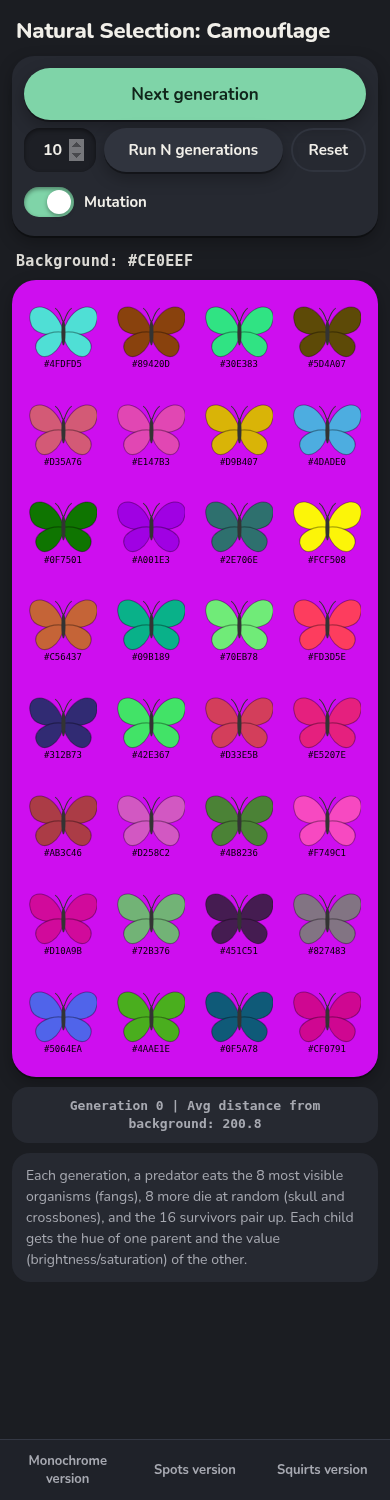
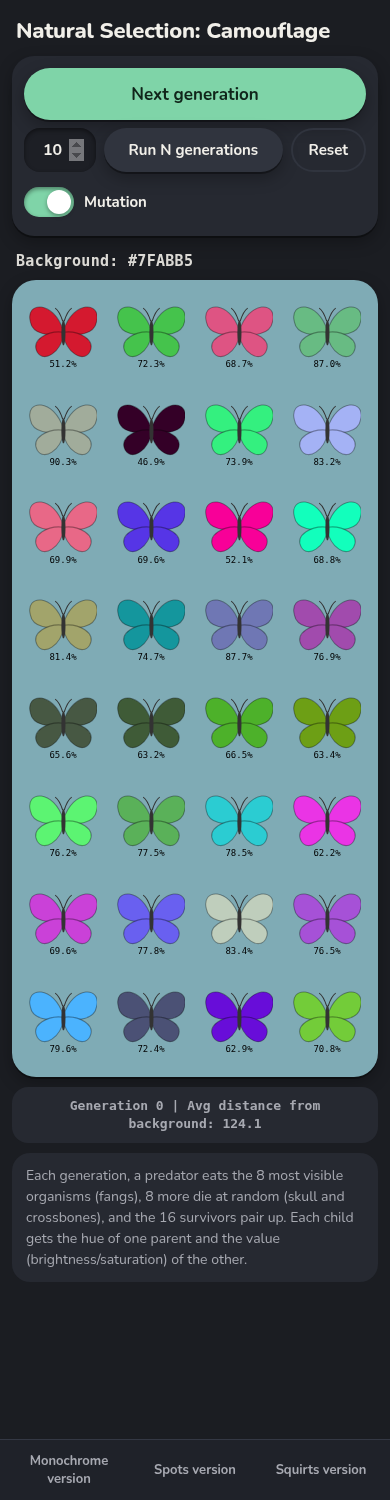
Desktop layout (min-width:900px) and drop inline max-width on description

diff --git a/design/mobile.css b/design/mobile.css
@@ -87,3 +87,36 @@ body>p:has(a) a:active{background:var(--card2)}
 /* description paragraph */
 body>p:not(:has(a)){max-width:none!important;font-size:14px!important;line-height:1.5;color:var(--muted)!important;
   background:var(--card);border-radius:18px;padding:12px 14px;margin:0}
+
+/* ================= DESKTOP (>=900px) =================
+   Additive only: phone rules above are untouched. Same rule: layout only on #grid/.org/SVGs. */
+@media (min-width:900px){
+  body{display:grid!important;max-width:1400px!important;margin:0 auto!important;
+    padding:0 28px 28px!important;column-gap:24px;row-gap:12px;
+    grid-template-columns:minmax(300px,340px) minmax(0,1fr);
+    grid-template-rows:auto repeat(5,auto) 1fr;align-content:start;align-items:start}
+  /* top bar: title left, nav right, sharing one frosted strip */
+  body::before{content:"";grid-column:1/-1;grid-row:1;align-self:stretch;margin:0 -28px;
+    background:rgba(32,35,42,.92);border-bottom:1px solid #343844;
+    backdrop-filter:blur(12px);-webkit-backdrop-filter:blur(12px)}
+  body>h2{grid-column:1;grid-row:1;margin:0!important;padding:18px 0;font-size:20px;z-index:1;align-self:center}
+  body>p:has(a),.nav{position:static!important;grid-column:2;grid-row:1;justify-self:end;align-self:center;
+    z-index:1;background:none!important;border:0!important;backdrop-filter:none!important;-webkit-backdrop-filter:none!important;
+    padding:0!important;margin:0!important;gap:6px;justify-content:flex-end}
+  body>p:has(a) a,.nav a{flex:0 0 auto;padding:0 16px;font-size:14px;border-radius:999px;transition:background .15s,color .15s}
+  body>p:has(a) a:hover,.nav a:hover{background:var(--card2);color:var(--ink)!important}
+
+  /* side column */
+  body>div:not([id]),.controls,#bglabel,#stats,body>p:not(:has(a)){grid-column:1;margin:0!important}
+  body>div:not([id]),.controls{padding:16px;gap:10px}
+  #bglabel{padding:2px 4px}
+  body>p:not(:has(a)){font-size:13px!important}
+
+  /* main: the grid (8 x 4), spans all side rows; extra height goes to the 1fr row */
+  #grid{grid-column:2;grid-row:2/-1;align-self:start;
+    grid-template-columns:repeat(8,minmax(0,1fr))!important;gap:10px!important;padding:18px!important;margin:0!important;border-radius:28px!important}
+  #grid .org{font-size:10px!important}
+  #grid .mark{font-size:56px}
+
+  button:hover{filter:brightness(1.08)}
+}

diff --git a/spots.html b/spots.html
@@ -23,7 +23,7 @@ button,input{font-size:15px;margin:4px;padding:6px 12px}
 <div id="grid"></div>
 <div id="stats" title="The generation count and the population&#x27;s average distance from the background. Lower means better camouflage."></div>
 <p class="nav"><a href="index.html" title="Go to the Color version: butterflies in full color.">Color version</a><a href="mono.html" title="Go to the Monochrome version: gray butterflies with 32-bit genes.">Monochrome version</a><a href="squirts.html" title="Go to the Squirts version: squid in full color.">Squirts version</a></p>
-<p style="max-width:520px;font-size:13px;color:#aaa">White butterflies carry two genes: a spot shade (32-bit base gray; each spot varies around it by an offset set by the pattern gene) and a spot pattern (32-bit seed for spot count, sizes and positions). The predator eats the 8 whose area-weighted average gray differs most from the background; 8 more die at random; each child takes the shade of one parent and the pattern of the other. Change the background any time with the slider.</p>
+<p style="font-size:13px;color:#aaa">White butterflies carry two genes: a spot shade (32-bit base gray; each spot varies around it by an offset set by the pattern gene) and a spot pattern (32-bit seed for spot count, sizes and positions). The predator eats the 8 whose area-weighted average gray differs most from the background; 8 more die at random; each child takes the shade of one parent and the pattern of the other. Change the background any time with the slider.</p>
 <script>
 const N=32,Q=N/4,MAX=0xFFFFFFFF,WING=3400;let bg,pop,gen;
 const rnd=()=>Math.floor(Math.random()*0x100000000);

diff --git a/mono.html b/mono.html
@@ -23,7 +23,7 @@ button,input{font-size:15px;margin:4px;padding:6px 12px}
 <div id="grid"></div>
 <div id="stats" title="The generation count and the population&#x27;s average distance from the background. Lower means better camouflage."></div>
 <p class="nav"><a href="index.html" title="Go to the Color version: butterflies in full color.">Color version</a><a href="spots.html" title="Go to the Spots version: white butterflies with gray spots.">Spots version</a><a href="squirts.html" title="Go to the Squirts version: squid in full color.">Squirts version</a></p>
-<p style="max-width:520px;font-size:13px;color:#aaa">Each generation, a predator eats the 8 most visible organisms (fangs), 8 more die at random (skull and crossbones), and the 16 survivors pair up. Genes are 32-bit numbers (00000000&ndash;FFFFFFFF) shown as gray. Each child gets the high 16 bits of one parent and the low 16 bits of the other.</p>
+<p style="font-size:13px;color:#aaa">Each generation, a predator eats the 8 most visible organisms (fangs), 8 more die at random (skull and crossbones), and the 16 survivors pair up. Genes are 32-bit numbers (00000000&ndash;FFFFFFFF) shown as gray. Each child gets the high 16 bits of one parent and the low 16 bits of the other.</p>
 <script>
 const N=32,Q=N/4,MAX=0xFFFFFFFF;let bg,pop,gen;
 const rnd=()=>Math.floor(Math.random()*0x100000000);

diff --git a/index.html b/index.html
@@ -23,7 +23,7 @@ button,input{font-size:15px;margin:4px;padding:6px 12px}
 <div id="grid"></div>
 <div id="stats" title="The generation count and the population&#x27;s average distance from the background. Lower means better camouflage."></div>
 <p class="nav"><a href="mono.html" title="Go to the Monochrome version: gray butterflies with 32-bit genes.">Monochrome version</a><a href="spots.html" title="Go to the Spots version: white butterflies with gray spots.">Spots version</a><a href="squirts.html" title="Go to the Squirts version: squid in full color.">Squirts version</a></p>
-<p style="max-width:520px;font-size:13px;color:#aaa">Each generation, a predator eats the 8 most visible organisms (fangs), 8 more die at random (skull and crossbones), and the 16 survivors pair up. Each child gets the hue of one parent and the value (brightness/saturation) of the other.</p>
+<p style="font-size:13px;color:#aaa">Each generation, a predator eats the 8 most visible organisms (fangs), 8 more die at random (skull and crossbones), and the 16 survivors pair up. Each child gets the hue of one parent and the value (brightness/saturation) of the other.</p>
 <script>
 const N=32,Q=N/4;let bg,pop,gen;
 const rnd=()=>Math.floor(Math.random()*0x1000000);

diff --git a/squirts.html b/squirts.html
@@ -24,7 +24,7 @@ button,input{font-size:15px;margin:4px;padding:6px 12px}
 <div id="grid"></div>
 <div id="stats" title="The generation count and the population&#x27;s average distance from the background. Lower means better camouflage."></div>
 <p class="nav"><a href="index.html" title="Go to the Color version: butterflies in full color.">Color version</a><a href="mono.html" title="Go to the Monochrome version: gray butterflies with 32-bit genes.">Monochrome version</a><a href="spots.html" title="Go to the Spots version: white butterflies with gray spots.">Spots version</a></p>
-<p style="max-width:520px;font-size:13px;color:#aaa">Each generation, a predator eats the 8 most visible squirts (fangs), 8 more die at random (skull and crossbones), and the 16 survivors pair up. Each child gets the hue of one parent and the value (brightness/saturation) of the other.</p>
+<p style="font-size:13px;color:#aaa">Each generation, a predator eats the 8 most visible squirts (fangs), 8 more die at random (skull and crossbones), and the 16 survivors pair up. Each child gets the hue of one parent and the value (brightness/saturation) of the other.</p>
 <script>
 const N=32,Q=N/4;let bg,pop,gen;
 const rnd=()=>Math.floor(Math.random()*0x1000000);

diff --git a/design/MARKUP-NOTES.md b/design/MARKUP-NOTES.md
@@ -7,3 +7,9 @@
 4. Optional: add class="controls" to the control <div>s and class="nav" to the links <p>. The CSS currently targets them structurally (`body>h2+div`, `body>p:has(a)`), so if the structure changes, those classes keep the styling stable.
 5. squirts.html: #hue and #val already sit inside <label>Hue …</label> and <label>Value …</label>, so no change is needed. The CSS keeps their inline/JS gradient backgrounds visible.
 6. The grid becomes 4 columns × 8 rows at phone width through grid-template-columns. The JS doesn't need to change.
+
+## Desktop (>=900px)
+The desktop layout is in the same file, inside `@media (min-width:900px)`. The phone rules are byte-for-byte unchanged.
+1. No markup changes are required. The current pages already have the viewport meta, the stylesheet link, `class="controls"` and `class="nav"`, and that's all the desktop layout needs.
+2. Keep this element order as direct children of `<body>`: `h2`, `.controls` (one or two), `#bglabel`, `#grid`, `#stats`, `p.nav`, the description `<p>`. On desktop, body becomes a 2-column CSS grid: title and nav share a top bar, while the controls, background label, stats and description stack in a ~320px left column. The creature grid (8 × 4) fills the right column. If you add another body-level element, give it a class and tell me where it should go.
+3. The inline `style="max-width:520px;…"` on the description `<p>` is harmless because it's overridden, but you can drop it.
